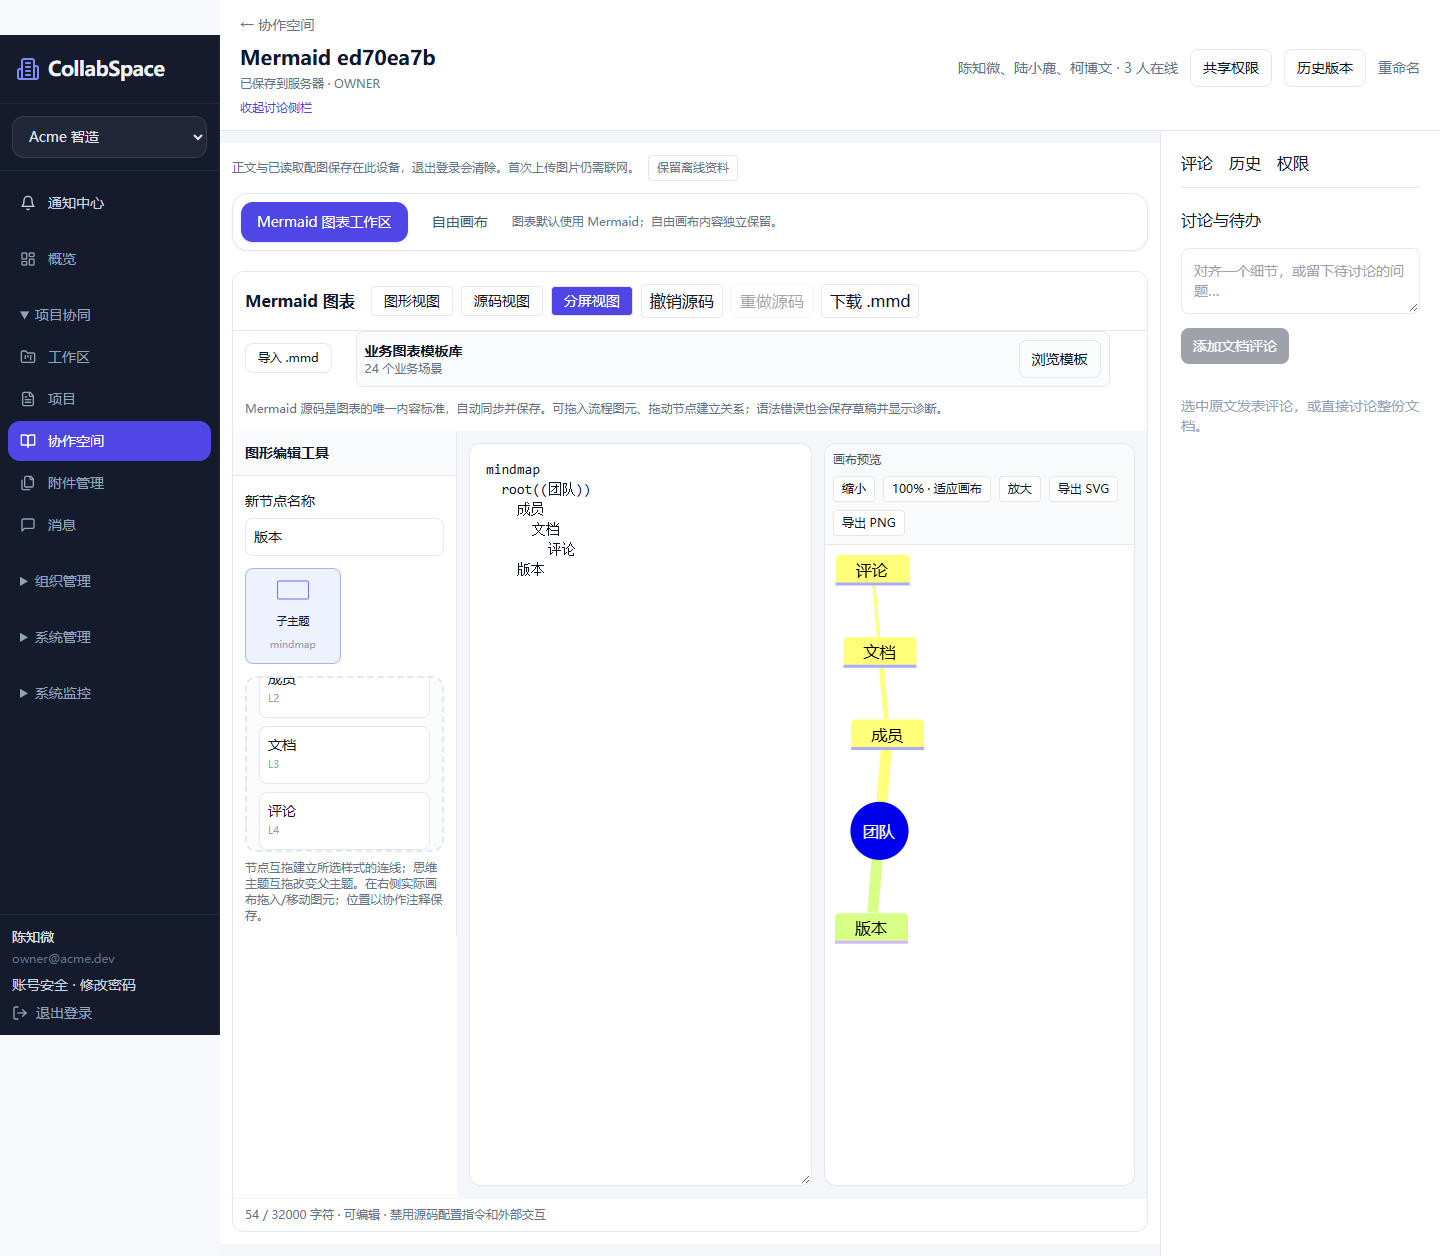
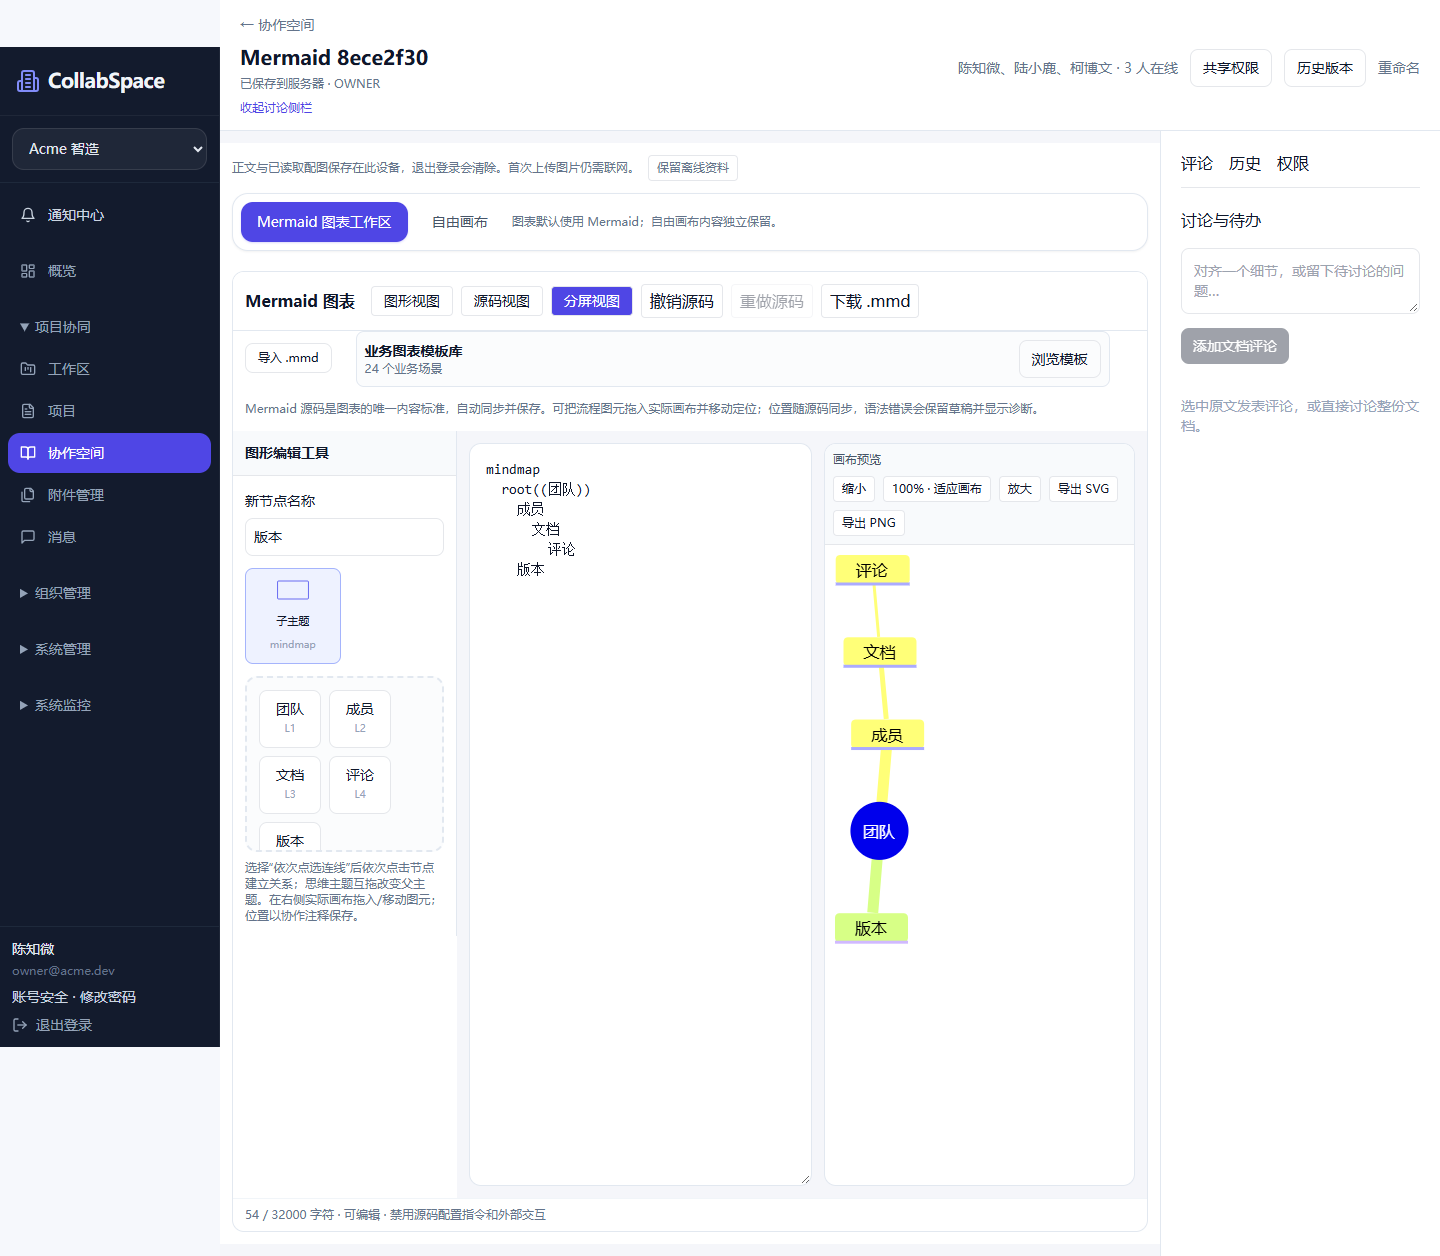
test: accept Mermaid canvas production workflows and document release boundaries

diff --git a/evidence/collaboration/MERMAID-POSITION-2026-10-25.md b/evidence/collaboration/MERMAID-POSITION-2026-10-25.md
@@ -1,4 +1,6 @@
-# Mermaid 实际画布定位与部分删除：开发中
+# Mermaid 实际画布定位与部分删除：开发及发布记录
+
+2026-10-26续做：源码eb7966f已部署至现有正式站点，API与数据库未修改。下方10月25日内容为历史开发记录；本次最终验收与发布身份见末尾追加节。
 
 2026-10-25用户反馈对应P/BR/D/AT-MPOS。**未发布，尚未完成验收**。基线14c2779；本轮源码在codex/mermaid-canvas-position分支归档，下一轮先读取[交接](../../docs/collaboration/MERMAID-POSITION-HANDOFF.md)。
 
@@ -24,3 +26,46 @@
 ## 接力
 
 5小时剩余9%时依用户要求创建北京时间2026-10-26 00:42、05:44两个一次性任务；稍后查询剩余6%。任务ID collabspace-mermaid-00-42、collabspace-mermaid-05-44，均已工具确认ACTIVE/COUNT=1，不创建额外独立聊天。接力先核对当前分支/交接，完成则不重复开发或部署并删除自己。
+
+## 2026-10-26续做：实现与本地证据
+
+- 位置恢复直接解析源码注释，重绘尚未完成时也能生效；清除过期交互层，pointer取消恢复原位置；超出32000字符的图形操作明确拒绝。侧栏改称节点列表，实际投放在右侧画布；连线用明确点选入口。
+- 反向连线分开走弧线，按官方SVG中edgeLabel/label结构更新标签，保留箭头；自环、同向平行边、subgraph及自定义边自由定位明确拒绝，原源码不变。恢复自动布局可清除位置注释。普通模板/思维图仍保留原有编辑路径，不声明全语法自由编辑。
+- Web单测最终22/22通过；新增安全拒绝测试首次失败是测试VM默认ES5未遍历matchAll迭代器，改为与应用一致的ES2020后9项定向、22项完整测试通过。没有移除安全断言。
+- 24个模板实际逐个官方渲染、持久保存、重开通过；节点属性、复制/删除、标注连线、过期模板保护、导入、SVG/PNG导出用例也通过：.test-runs/mermaid-relay-ready前2项通过。图片保存为mermaid-relay-local-business-*.png；旧business-diagrams-online-*.png恢复原历史版本，避免把本地图冒充正式图。
+- .test-runs/mermaid-relay-release-gate前3项通过：画布三客户端场景、50%缩放/空画布/撤销重做/恢复布局/拒绝复杂移动、原有多类型/离线/并发/输入法冲突/诊断/源码下载回归。该组历史恢复最终超时，不计通过。
+- 本地最初API未就绪导致ECONNREFUSED；启动仅绑定127.0.0.1的已安装Redis 5.0.14.1后继续。另有创建请求失败未记录状态码、重绘热编译导致页面空白及测试超时，均未计通过。开发日志显示一次热编译469.6秒，不用提高测试时限掩盖。
+- 本地生产构建实际完成38页、编译/类型检查通过，日志.test-runs/agent-runtime/mermaid-relay-production-build.log；存在既有lint警告。pnpm运行时曾触发8分钟锁文件策略核验，package.json/锁文件未改变；该命令退出0不单独算类型证据。
+
+## BLOCKED：本地生产验收服务
+
+本地生产构建后，自动审批规则拒绝启动next start；再将监听限制为127.0.0.1仍拒绝，返回仅为blocked by policy，没有具体理由。未通过改壳或其他本地进程绕过；本地生产浏览器验收NOT_RUN。沿用用户已明确授权的现有站点部署与上线后验收流程，保留旧部署回退，在正式域名补验。测试PG/API/Redis与临时inspector均已关闭，未动其他用户进程。
+
+## 正式发布身份
+
+- 应用源码eb7966f，前端r20261026-01；126文件快照SHA256 d5b52e94b06767fd6f3cb756b0d7f2cab137ae0454771335437d3947892909d7。
+- Vercel dpl_49sw1YognkLsUSiUkcpNt1ofFUCj，https://collabspace-3y6haough-purelamp.vercel.app；独立构建52秒，inspect Ready后promote成功。回退为发布前实际核对的dpl_AxnSU8GDEsCtBvPZsQgnrVBotoMv。
+- 全局Node环境在续做期间变为24.22.1，部署与正式验收使用现存Node22.20.0/Vercel59.23.2绝对路径，没有更改全局nvm。没有申请额外付费资源。
+- 正式API保持r06及sha256:fd64a9f00b066bda9c828c47c543ae7860dcf44cdf35f8fb492992661ee104a8；不重启API，不做数据库迁移。WS/Office保持。
+- 北京时间02:07服务器抽样：MemAvailable1698MiB，API75.57MiB/384MiB、CPU0.12%、OOM=false/restart0；磁盘8.8GiB/85%，load0.40/0.59/0.62，DB/Redis up、Office=true。不触发43.130.127.57迁移条件。
+
+## 正式验收
+
+使用私有合成账号配置、既有本机代理及显式MERMAID_POSITION_ONLINE=1，在实际域名运行mermaid-position.spec.cjs和mermaid.spec.cjs。结果在本节按实际结束状态追加；若正式验收失败则回退，不把上线本身当作通过。
+
+**正式4/4通过，3.6分钟**，`.test-runs/mermaid-production-online/.last-run.json`为passed、failedTests为空。实际Node22.20.0/Edge、正式前端与正式API，不替换接口或模型。
+
+1. 三客户端画布：450/350拖入、515/405移动、已连接节点移动与边路径更新、双编辑同步/刷新、删除模板链中节点保留其余边、Shift多删、Viewer禁用、SVG下载。
+2. 空白画布50%坐标换算、撤销/重做、恢复自动布局、自环移动拒绝且源图不变、iframe仍无授权sandbox；反向边分开走弧线，标签位置不同且文字保留；32000字符上限拒绝新增，完整源码哈希不变。
+3. 原有流程/思维图关系编辑、六类官方图表、多账号并发、离线回连、刷新、输入法远端冲突保留草稿、语法错误保存、禁用配置/外部资源、.mmd下载与视图切换通过。
+4. 带位置注释的历史只读预览、恢复为新私有副本后源码完整保留；原协作者请求副本404。生产包没有复现开发热编译空白页。
+
+额外创建中文演示白板并实际保存、渲染，记录在mermaid-online-demo.json/png：[打开演示](https://collabspace.purelamp.uk/projects/cmvg1shjj001w55oco1ou87o3/documents/f4752774-d481-49a8-a5f9-f84c6870de05)。owner可编辑，member为EDITOR、admin为VIEWER。零模型调用、零邮件外发。
+
+03:09北京时间复核：可用内存1672MiB、磁盘8.9GiB/85%、load0.87/0.84/0.76；API76.71MiB/384MiB、CPU0.13%、OOM=false/restart0；DB/Redis up、Office=true。无需迁移。此为抽样，不是压测或长期容量保证。
+
+## 发布边界与归档
+
+完成本次普通流程图的实际拖放/保存/局部删除及复杂结构安全拒绝，不宣称任意Mermaid语法完整几何编辑。Safari/Firefox/移动触屏与无限画布、任意复杂边/分组自由定位未验收。自动审批阻塞的本地生产服务启动仍单列BLOCKED，不因正式验收通过而改写其结果。
+
+源码eb7966f，后续文档/证据归档至主分支与标签collabspace-20261026-mermaid；压缩包与SHA256清单在.test-runs/archives。未纳入私有.env、依赖、测试数据库及另行出现的未跟踪reports/、.trae-html-share-packages/。两次接力任务在完成后清理，避免05:44重复执行。

diff --git a/docs/collaboration/MERMAID.md b/docs/collaboration/MERMAID.md
@@ -1,8 +1,8 @@
 # Mermaid 为白板图表的主要执行标准
 
-2026-10-26定位修复契约：见[实际画布交互](MERMAID-POSITION.md)。以最新验收报告的发布身份为准，保留官方渲染与源码权限边界。
+2026-10-26定位修复已正式发布，线上4/4通过；契约：见[实际画布交互](MERMAID-POSITION.md)。以最新验收报告的发布身份为准，保留官方渲染与源码权限边界。
 
-2026-10-25图形编辑修复（开发中、未上线）：实际画布拖入/移动、位置协作注释与模板节点部分删除，见[交接与剩余门槛](MERMAID-POSITION-HANDOFF.md)、[实际验收](../../evidence/collaboration/MERMAID-POSITION-2026-10-25.md)。此前仅自动布局的行为是本轮修复原因，不能把本地通过当作正式发布。
+2026-10-25开发阶段记录（已由10月26日正式验收取代）：实际画布拖入/移动、位置协作注释与模板节点部分删除，见[交接与剩余门槛](MERMAID-POSITION-HANDOFF.md)、[实际验收](../../evidence/collaboration/MERMAID-POSITION-2026-10-25.md)。此前仅自动布局的行为是本轮修复原因，不能把本地通过当作正式发布。
 
 2026-10-21 第二轮追加：受支持 Mermaid 流程图/基础思维导图拖拽直接修改共享源码；评论/版本提交后实时通知；账号/租户/文档隔离的离线配图；Google/GitHub 社交登录安全完善。最新契约和验收以 [ITERATION-2.md](ITERATION-2.md) 为准，配置见 [OAUTH-SETUP-MEMO.md](OAUTH-SETUP-MEMO.md)。历史未实现描述不覆盖本轮新增能力；任意语法/坐标回写、完整离线应用壳及企业SSO仍不宣称完成。
 

diff --git a/docs/collaboration/BUSINESS-DIAGRAMS.md b/docs/collaboration/BUSINESS-DIAGRAMS.md
@@ -1,8 +1,8 @@
 # 高频业务绘图 — 2026-10-22
 
-2026-10-26定位修复契约：见[实际画布交互](MERMAID-POSITION.md)。以最新验收报告的发布身份为准，保留官方渲染与源码权限边界。
+2026-10-26定位修复已正式发布，线上4/4通过；契约：见[实际画布交互](MERMAID-POSITION.md)。以最新验收报告的发布身份为准，保留官方渲染与源码权限边界。
 
-2026-10-25图形编辑修复（开发中、未上线）：实际画布拖入/移动、位置协作注释与模板节点部分删除，见[交接与剩余门槛](MERMAID-POSITION-HANDOFF.md)、[实际验收](../../evidence/collaboration/MERMAID-POSITION-2026-10-25.md)。此前仅自动布局的行为是本轮修复原因，不能把本地通过当作正式发布。
+2026-10-25开发阶段记录（已由10月26日正式验收取代）：实际画布拖入/移动、位置协作注释与模板节点部分删除，见[交接与剩余门槛](MERMAID-POSITION-HANDOFF.md)、[实际验收](../../evidence/collaboration/MERMAID-POSITION-2026-10-25.md)。此前仅自动布局的行为是本轮修复原因，不能把本地通过当作正式发布。
 
 参考：用户提供的 https://chatgpt.com/share/6ada26dc-f870-83e8-a543-d8828e314ebf 。已读公开分享正文；其中第三方工具的功能描述只是需求参考，不能当本项目验收。Mermaid仍是图表内容标准，自由画布保留独立旧模型。
 

diff --git a/docs/collaboration/MERMAID-POSITION-HANDOFF.md b/docs/collaboration/MERMAID-POSITION-HANDOFF.md
@@ -1,5 +1,12 @@
 # Mermaid 画布定位修复交接
 
+## 已完成：2026-10-26正式发布
+
+本次接力已完成，勿重复启动。应用源码eb7966f，Vercel dpl_49sw1YognkLsUSiUkcpNt1ofFUCj，r20261026-01；正式4/4通过（3.6分钟），本地Web22项、38页生产构建通过。详见../../evidence/collaboration/MERMAID-POSITION-2026-10-25.md，中文演示链接在报告中。API/数据库未改；原r08部署保留回退。最终归档标签collabspace-20261026-mermaid。下面是历史交接资料，不是仍待执行清单。
+
+本地生产服务启动被自动审批拒绝，未绕过；通过既有授权的正式发布/验收流程完成。测试PG、API、Redis、inspector均已关闭。未跟踪reports/和.trae-html-share-packages/不是本轮工作，保留不纳入归档。若定时任务仍触发，只核对完成标记并删除自身；05:44任务已无需继续。
+
+
 2026-10-25，用户反馈不能把图元拖入实际画布、位置不能自由调整、不能部分删除。基线14c2779，本轮未发布代码归档在codex/mermaid-canvas-position分支；不要把开发分支当成上线。先git status/diff，勿覆盖其他工作。定时接力已创建：北京时间10月26日00:42、05:44，仅各一次；automation id分别collabspace-mermaid-00-42、collabspace-mermaid-05-44。创建时5小时剩余9%。如果本轮已完成并归档，不重复执行。
 
 ## 根因与实现

diff --git a/docs/collaboration/REQUIREMENTS.md b/docs/collaboration/REQUIREMENTS.md
@@ -1,8 +1,8 @@
 # CollabSpace — 需求分析与产品决策
 
-2026-10-26定位修复契约：见[实际画布交互](MERMAID-POSITION.md)。以最新验收报告的发布身份为准，保留官方渲染与源码权限边界。
+2026-10-26定位修复已正式发布，线上4/4通过；契约：见[实际画布交互](MERMAID-POSITION.md)。以最新验收报告的发布身份为准，保留官方渲染与源码权限边界。
 
-2026-10-25图形编辑修复（开发中、未上线）：实际画布拖入/移动、位置协作注释与模板节点部分删除，见[交接与剩余门槛](MERMAID-POSITION-HANDOFF.md)、[实际验收](../../evidence/collaboration/MERMAID-POSITION-2026-10-25.md)。此前仅自动布局的行为是本轮修复原因，不能把本地通过当作正式发布。
+2026-10-25开发阶段记录（已由10月26日正式验收取代）：实际画布拖入/移动、位置协作注释与模板节点部分删除，见[交接与剩余门槛](MERMAID-POSITION-HANDOFF.md)、[实际验收](../../evidence/collaboration/MERMAID-POSITION-2026-10-25.md)。此前仅自动布局的行为是本轮修复原因，不能把本地通过当作正式发布。
 
 2026-10-25入口整理：操作区域按钮化、未提供功能的占位项移除，P/BR/D/AT-AUI见[功能入口规范](ACTION-UI.md)，范围和实际成绩见[验收记录](../../evidence/collaboration/ACTION-UI-2026-10-25.md)。
 

diff --git a/docs/collaboration/IMPLEMENTATION_PROMPT.md b/docs/collaboration/IMPLEMENTATION_PROMPT.md
@@ -1,8 +1,8 @@
 # 可直接交给开发 Agent 的 Prompt
 
-2026-10-26定位修复契约：见[实际画布交互](MERMAID-POSITION.md)。以最新验收报告的发布身份为准，保留官方渲染与源码权限边界。
+2026-10-26定位修复已正式发布，线上4/4通过；契约：见[实际画布交互](MERMAID-POSITION.md)。以最新验收报告的发布身份为准，保留官方渲染与源码权限边界。
 
-2026-10-25图形编辑修复（开发中、未上线）：实际画布拖入/移动、位置协作注释与模板节点部分删除，见[交接与剩余门槛](MERMAID-POSITION-HANDOFF.md)、[实际验收](../../evidence/collaboration/MERMAID-POSITION-2026-10-25.md)。此前仅自动布局的行为是本轮修复原因，不能把本地通过当作正式发布。
+2026-10-25开发阶段记录（已由10月26日正式验收取代）：实际画布拖入/移动、位置协作注释与模板节点部分删除，见[交接与剩余门槛](MERMAID-POSITION-HANDOFF.md)、[实际验收](../../evidence/collaboration/MERMAID-POSITION-2026-10-25.md)。此前仅自动布局的行为是本轮修复原因，不能把本地通过当作正式发布。
 
 2026-10-25入口整理：操作区域按钮化、未提供功能的占位项移除，P/BR/D/AT-AUI见[功能入口规范](ACTION-UI.md)，范围和实际成绩见[验收记录](../../evidence/collaboration/ACTION-UI-2026-10-25.md)。
 

diff --git a/docs/collaboration/DESIGN.md b/docs/collaboration/DESIGN.md
@@ -1,8 +1,8 @@
 # CollabSpace — 详细设计 v1
 
-2026-10-26定位修复契约：见[实际画布交互](MERMAID-POSITION.md)。以最新验收报告的发布身份为准，保留官方渲染与源码权限边界。
+2026-10-26定位修复已正式发布，线上4/4通过；契约：见[实际画布交互](MERMAID-POSITION.md)。以最新验收报告的发布身份为准，保留官方渲染与源码权限边界。
 
-2026-10-25图形编辑修复（开发中、未上线）：实际画布拖入/移动、位置协作注释与模板节点部分删除，见[交接与剩余门槛](MERMAID-POSITION-HANDOFF.md)、[实际验收](../../evidence/collaboration/MERMAID-POSITION-2026-10-25.md)。此前仅自动布局的行为是本轮修复原因，不能把本地通过当作正式发布。
+2026-10-25开发阶段记录（已由10月26日正式验收取代）：实际画布拖入/移动、位置协作注释与模板节点部分删除，见[交接与剩余门槛](MERMAID-POSITION-HANDOFF.md)、[实际验收](../../evidence/collaboration/MERMAID-POSITION-2026-10-25.md)。此前仅自动布局的行为是本轮修复原因，不能把本地通过当作正式发布。
 
 2026-10-25入口整理：操作区域按钮化、未提供功能的占位项移除，P/BR/D/AT-AUI见[功能入口规范](ACTION-UI.md)，范围和实际成绩见[验收记录](../../evidence/collaboration/ACTION-UI-2026-10-25.md)。
 

diff --git a/README.md b/README.md
@@ -1,5 +1,7 @@
 # CollabSpace — 多人实时协作文档
 
+2026-10-26：Mermaid实际画布拖入/移动、位置保存与局部删除已上线，正式4/4验收通过；[中文演示白板](https://collabspace.purelamp.uk/projects/cmvg1shjj001w55oco1ou87o3/documents/f4752774-d481-49a8-a5f9-f84c6870de05)、[范围](docs/collaboration/MERMAID-POSITION.md)、[验收发布](evidence/collaboration/MERMAID-POSITION-2026-10-25.md)。复杂结构自由定位仍明确限制，原图不被擅自覆盖。
+
 2026-10-25：IM/助手功能入口按钮化，隐藏未提供功能的占位项；[范围与规范](docs/collaboration/ACTION-UI.md)、[测试与发布](evidence/collaboration/ACTION-UI-2026-10-25.md)。
 
 2026-10-25后续：Azure海内外统一选型、IM话筒听写改版与受限助手工作流，见[听写体验](docs/collaboration/VOICE-DICTATION-UX.md)、[验收与发布](evidence/collaboration/DICTATION-RUNTIME-2026-10-25.md)。Azure/真人服务尚未开通，真实语音与视频不计为通过。
